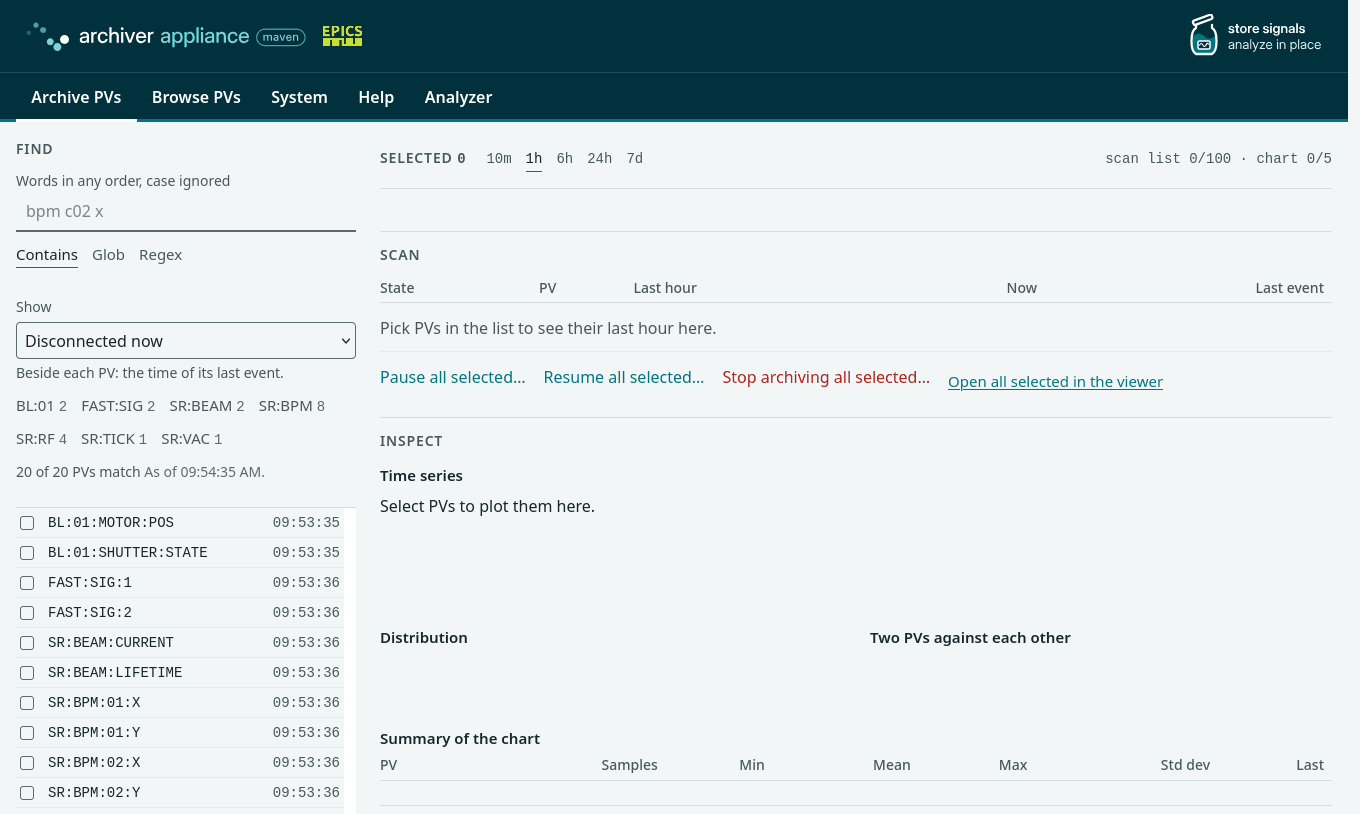
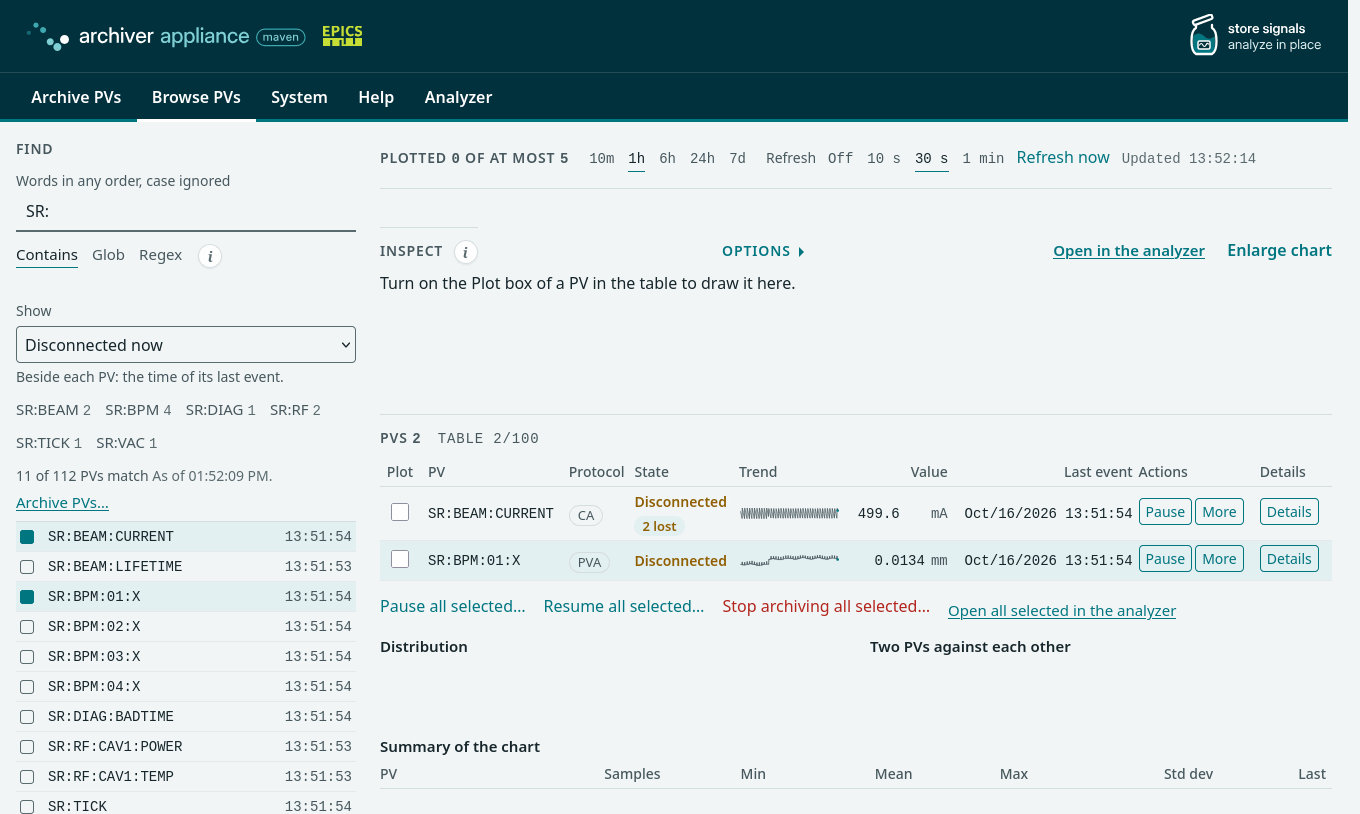
Describe the PV table, the Details window and Refresh in the manual
The interface and operating chapters describe the table of PVs, its row
actions, the Details window and the Refresh control, the retrieval
chapter the analyzer links, and four figures show the page.

Refs #39

diff --git a/docs/book/src/interface.md b/docs/book/src/interface.md
@@ -14,7 +14,7 @@ carries a content security policy, and the charts are drawn with D3.
 | Page | Address | For | Content |
 | :--- | :--- | :--- | :--- |
 | Archive PVs | `archive.html` | Everyone | Add one PV or a list of names, follow each request to the state Being archived, cancel, pause, resume or stop from its row |
-| Browse PVs | `index.html` | Everyone | Find PVs, scan the selected ones, inspect them, act on them |
+| Browse PVs | `index.html` | Everyone | Find PVs, list the selected ones with their value and last event, plot up to five of them, act on them |
 | System: Overview | `system.html` | Everyone | Three verdict lines and one row per measure with its value, its status and a link to the detail; the **i** button of a measure opens its meaning |
 | System: Operations | `operations.html` | The person who looks after the appliance | Samples, dropped samples, write path, stores and ETL, processes, configuration |
 | System: Retrieval performance | `retrieval.html` | A person whose data requests are slow | What the server reports and a request measured in the browser |
@@ -40,17 +40,17 @@ and its state, and the actions of that state:
 
 ## Browse PVs page
 
-The Browse PVs page, with three PVs selected:
+The Browse PVs page, with five PVs in the table and two of them plotted:
 
 ![The Browse PVs page](images/browse-page.png)
 
 | Part | Behavior |
 | :--- | :--- |
-| Find | Words in any order with case ignored, glob, or regular expression; chips group the matches by the first two `:` segments; the rows in view show the state of a PV that is not in the scan list (paused, not archived), read in one call for at most 60 rows |
+| Find | Words in any order with case ignored, glob, or regular expression; the **i** button beside the three modes explains each; chips group the matches by the first two `:` segments; the rows in view show the state of a PV that is not in the table (paused, not archived), read in one call for at most 60 rows |
 | Show | A selection of the list by one of the server reports: disconnected now, paused, never connected, waiting for the first connection, recently added, recently changed, highest event rate, highest storage rate, most storage used, most connection drops, silent for the longest time, most events dropped for a wrong time stamp, by buffer overflow and by a type change |
-| Scan | One row per selected PV with its state, a trend of the chosen range, the value now and the last event; at most 100 PVs. The link Open all selected in the viewer opens the selected PVs in the data viewer over the window of the chart |
-| Inspect | Time series of at most 5 PVs with one value axis for each unit and a legend, then distribution, scatter and statistics; Options, Enlarge chart and Open in the analyzer on the row of the Inspect heading; the line above the chart with the time window and the value ranges. The gestures and options are listed under [Chart controls](#chart-controls) |
-| Detail | State with its explanation, the actions that apply, a link that opens the PV in the data viewer, and the full details list |
+| Chart | The PVs whose Plot box is on, at most 5, with one value axis for each unit and a legend. Above it are the range buttons and the Refresh control; the line above the chart holds the time window and the value ranges; Options, Enlarge chart and Open in the analyzer are on the row of the Inspect heading. The gestures and options are listed under [Chart controls](#chart-controls) |
+| Table of PVs | One row per PV selected in the list, at most 100, under the chart; the columns are listed under [The table of PVs](#the-table-of-pvs) |
+| Distribution, scatter and statistics | Below the table: the distribution of the PV in front, the scatter of two PVs of the same unit, and the Summary of the chart |
 
 A PV name is a base name with an optional field (`X:Y` or `X:Y.RBV`); a
 name with a field is a PV of its own and the Browse PVs page and the viewer
@@ -66,20 +66,26 @@ has no sample has no value, and the line is not extended through it. The
 viewer's CSV download holds the values as drawn, with the column
 `interval_seconds` (1 for a stored sample, N for a mean over N seconds).
 
-The state of a PV and the actions that apply:
+The state of a PV and the actions in its row:
 
-| State | Actions |
+| State | Actions in the row |
 | :--- | :--- |
-| Being archived | Pause, Change sampling, Stop archiving, Maintenance |
-| Paused | Resume, Change sampling, Stop archiving, Maintenance |
-| Initial sampling, Appliance assigned | Abort the request |
-| Not being archived | Archive |
+| Being archived, Disconnected | Pause; More, which holds Change sampling, Maintenance and Stop archiving; Details |
+| Paused | Resume; More; Details |
+| Initial sampling, Appliance assigned | Cancel request; Details |
+| Not being archived | A link to the Archive PVs page with the name of the PV in its address |
 
 Stop archiving pauses the PV first, because the archiver removes only a
-paused PV. Change sampling applies at once to a running PV. Maintenance
-holds rename, change of type and consolidation; each of them pauses the PV
-first, and a change of type asks for a confirmation that a backup exists.
-Pause, Resume and Stop archiving also work on all selected PVs at once.
+paused PV, and says so before it acts. Change sampling applies at once to
+a running PV. Maintenance opens a window that explains rename, change of
+type and consolidation; each of them pauses the PV first, and a change of
+type asks for a confirmation that a backup exists. The More menu closes with
+Esc and with a click outside it; each window closes with Esc, its Close
+button and a click outside it, and the focus returns to the control that
+opened it. Under the table, Pause all selected, Resume all selected and
+Stop archiving all selected ask first and act on every PV of the table, and
+Open all selected in the analyzer opens every PV of the table in the
+analyzer over the window of the chart.
 
 The state is kept in the fragment of the address, the part after `#`
 (`index.html#q=bpm&range=10&pv=SR:BPM:01:X`), so a link reproduces the view:
@@ -91,7 +97,48 @@ The state is kept in the fragment of the address, the part after `#`
 | `report` | The selection of the Show list: `disconnected`, `paused`, `never`, `metagets`, `recent`, `modified`, `eventrate`, `storagerate`, `consumed`, `lost`, `silent`, `droppedtime`, `droppedbuffer` or `droppedtype`; none selects all archived PVs |
 | `range` | The range in minutes (default 60) |
 | `from`, `to` | A zoomed window, in milliseconds since the epoch |
-| `pv` (repeated) | The selected PVs |
+| `pv` (repeated) | The PVs of the table |
+| `plot` (repeated) | The PVs whose Plot box is on, at most 5, among the `pv` names |
+
+## The table of PVs
+
+Each PV selected in the list has one row:
+
+| Column | Content |
+| :--- | :--- |
+| Plot | The box that draws the PV in the chart. It is off when the row appears. At most 5 boxes are on; at 5 the other boxes are disabled and say why in their title |
+| PV | The name |
+| Protocol | CA or PVA, read from `usePVAccess` of `getPVTypeInfo`; empty for a PV that is not archived |
+| State | The state word of the PV and, when events were lost, `N lost`, where N is the sum of `eventsDropped` of the reports `getPVsByDroppedEventsTimestamp`, `getPVsByDroppedEventsBuffer` and `getPVsByDroppedEventsTypeChange`. The column is shown only while a PV is not in its normal state, which is Being archived with no lost event |
+| Trend | A small line of the chosen range, for every PV of the table whether or not its Plot box is on; none for an array PV |
+| Value | The value of the newest sample at or before the end of the chart window, with its unit, aligned on the decimal point. An array reads `array of N`. A PV with no sample in the 30 days before the end of the window has an empty cell with `no sample in 30 days` as its title |
+| Last event | The date and time of that sample, which is the time of the data and not the time at which the archiver received it, written in the time zone of the browser; the title holds the instant in UTC to the millisecond |
+| Std dev | The standard deviation of the points of the Trend; shown only while the Standard deviation band of the chart options is on |
+| Actions and Details | The buttons of the state of the PV, listed under [Browse PVs page](#browse-pvs-page) |
+
+Value and Last event come from one call of `getDataAtTime` for all the PVs of the table. While the window ends now the page leaves the instant out and the server answers with the newest sample; for a window that ends earlier the page sends the end of the window. A window of 10 minutes or less shows the same sample as the last one that `getData` returns for it; a longer window draws a mean in its last interval, which is not a sample.
+
+The **Details** button opens a window with the groups below. A value is read by the exact name of the call that holds it, `getPVStatus`, `getPVTypeInfo` or `getPVDetails`. A name that the call does not hold reads *not provided*; for a PVA PV these are the unit and the host. A value that is present and empty, a pair of limits that are both 0 or both NaN, and a limit that is NaN read *not set*; for a CA record without a unit the call returns an empty string, so its unit reads *not set*. A time is written as the server writes it, in the time zone of the server, under the heading of its kind: the time of the data, received, recorded, moved, and the times of the connection, of the settings of the PV and of the last request for its data.
+
+![The Details window of a PV](images/browse-details.png)
+
+| Group | Content |
+| :--- | :--- |
+| How it is stored | The appliance, the sampling, the policy, the estimated event rate, storage rate and growth, and the time at which the archiver last passed the data to the short term store |
+| Amount | The events so far, the raw scan events, the bytes per event and the elements per event |
+| Connection | Whether the PV is connected, its connection state and the connection drops, with the time of the data of the last event, the time at which the archiver received the last event, and the times of the connection |
+| Lost events | The events lost for a wrong time stamp, for a full sample buffer and for a change of type, and their sum |
+| Who reads it | The number of retrieval requests and of users, and the time of the last request |
+| The PV itself | The data type, the unit, the precision, the display, control, warning and alarm limits, the record type, the archived fields and the host, with the times at which its settings were created and last changed |
+| Moves between stores | For each move, for example from the short term store to the medium term store, the granularity of the source and of the destination, the duration of the last job, the number of runs, and the times of the last and the next run |
+
+A paused PV has no connection, no lost events and no moves between stores to report; its Details window says so for those groups.
+
+## Refreshing the page
+
+The control beside the range buttons offers Off, 10 s, 30 s and 1 min; 30 s is the default and the choice is kept in the browser. At each period the page reads Value and Last event again with one `getDataAtTime` call and the lost events from the three reports. The Trend and the chart are read again when their data is older than 25 seconds, so no more often than every 30 seconds. **Refresh now** reads everything once, and the time of the last read is written beside the control as Updated.
+
+With Off nothing changes until Refresh now is pressed; the state of a PV is read again only after an action on it and while its request is unfinished. A window that ends earlier than now has nothing new to read, so the control is dim and nothing is refreshed. A hidden browser tab pauses the refresh and a visible one reads again at once.
 
 ## Chart controls
 
@@ -200,10 +247,11 @@ type are not in the interface; their calls remain
 
 | Item | Value |
 | :--- | :--- |
-| PVs in the scan list | 100 |
+| PVs in the table | 100 |
 | PVs in a chart | 5; each unit has its own value axis |
 | Concurrent data requests | 6 |
-| Status of the selected PVs | Every 3 s while a request is unfinished or an action is recent, every 20 s otherwise |
+| Status of the PVs of the table | Every 3 s while a request is unfinished or an action is recent, every 20 s otherwise; with the Refresh control on Off, only in the first two cases |
+| Value, Last event and lost events of the table | At the period of the Refresh control (10 s, 30 s or 1 min); the Trend and the chart no more often than every 30 s |
 | System: Overview, Operations, Retrieval performance | Every 20 s, 30 s and 30 s while the page is visible |
 | A request measured on the Retrieval performance page | The whole answer is read into the page, about 100 bytes per sample (a week of a PV at 1 Hz is about 60 MB); the page says so next to the form |
 

diff --git a/docs/book/src/operating.md b/docs/book/src/operating.md
@@ -21,7 +21,7 @@ bar, named by task; the entry of the page in view is marked:
 | Menu entry | Opens | Purpose |
 | --- | --- | --- |
 | Archive PVs | the Archive PVs page | archive a PV and pause, resume or stop it |
-| Browse PVs | the Browse PVs page | find PVs, scan them, inspect their data; the reports are the **Show** list of the Find panel |
+| Browse PVs | the Browse PVs page | find PVs, list them with their value and last event, plot them, act on them; the reports are the **Show** list of the Find panel |
 | System | System: Overview | status monitoring: the verdict on the appliance, then Operations and Retrieval performance |
 | Help | the help page | how to use each page, the PV states, the management API reference ([Scripting](scripting.md)) and a link to this manual |
 | Analyzer | the data viewer | the data viewer of the retrieval web application ([Retrieving data](retrieval.md#the-data-viewer)) |
@@ -34,18 +34,22 @@ addresses of the earlier pages (`reports.html`, `metrics.html`,
 place.
 
 The Browse PVs page is the page of daily use. The next figure shows it with
-three PVs selected: the Find panel on the left, the scan list with a
-trend of each PV, the chart with its distribution, scatter plot and
-statistics, and the detail of the first PV.
+five PVs in the table and two of them plotted: the Find panel on the left,
+the chart, and the table with the protocol, the trend, the value and the
+time of the last event of each PV, and the buttons of its state.
 
-![The Browse PVs page with three PVs selected](images/browse-page.png)
+![The Browse PVs page with five PVs selected](images/browse-page.png)
 
-The controls of the chart (the time window, the value range of each unit, the
-Options panel, Enlarge chart) are listed in
-[Chart controls](interface.md#chart-controls). The link **Open in the
-analyzer** above the chart opens the PVs of the chart in the data viewer,
+Turn on the **Plot** box of a row to draw that PV in the chart; at most five
+PVs are drawn at a time. The controls of the chart (the time window, the
+value range of each unit, the Options panel, Enlarge chart) are listed in
+[Chart controls](interface.md#chart-controls), the columns of the table and
+the **Refresh** control in [The table of PVs](interface.md#the-table-of-pvs)
+and [Refreshing the page](interface.md#refreshing-the-page). The link **Open
+in the analyzer** above the chart opens the plotted PVs in the data viewer,
 which shows PVs as charts per unit, over the window of the chart
-([Retrieving data](retrieval.md#the-data-viewer)).
+([Retrieving data](retrieval.md#the-data-viewer)); **Open all selected in the
+analyzer** under the table opens every PV of the table.
 
 ## Adding PVs
 
@@ -89,29 +93,32 @@ instead.
 | Not being archived | the archiver has no request for the PV |
 | Appliance Down | the appliance that holds the PV does not answer, so its state cannot be read |
 
-A PV that never connects stays in Initial sampling. Its detail offers
-**Abort the request**.
+A PV that never connects stays in Initial sampling. Its row offers
+**Cancel request**.
 
 ## Managing a PV
 
-Select a PV in the list; its detail appears at the bottom of the Browse PVs
-page with the actions that apply to its state.
+Use the buttons in the row of the PV in the table of the Browse PVs page.
+Only the actions that fit its state appear. **More** holds Change sampling,
+Maintenance and Stop archiving; **Maintenance** opens a window that
+explains rename, change of type and consolidation before it asks.
 
-![The detail of an archived PV with its Maintenance actions opened](images/browse-maintenance.png)
+![The Maintenance window of an archived PV](images/browse-maintenance.png)
 
 | Action | Condition | Effect |
 | --- | --- | --- |
 | Pause, Resume | the PV is archived | stops or restarts sampling; the configuration and the stored data stay |
 | Change sampling | the PV is archived or paused | sets the method and the period; a running PV takes them at once and the stored data does not change |
 | Stop archiving | the PV is archived or paused | pauses the PV, removes it from the archiver and, when ticked, deletes its stored data |
-| Abort the request | the PV is in Initial sampling or Appliance assigned | cancels the archive request |
+| Cancel request | the PV is in Initial sampling or Appliance assigned | cancels the archive request |
 | Rename | none; the PV is paused first | copies the settings and the data to the new name; both names stay paused until each is checked and resumed |
 | Change type | none; the PV is paused first | converts the stored data of every store to the new type, in place; it asks for the confirmation that a backup exists |
 | Consolidate data | none; the PV is paused first | moves the data of the earlier stores up to the chosen store |
 
 **Pause all selected**, **Resume all selected** and **Stop archiving all
-selected** apply an action to every PV of the scan list. **All details**
-lists everything the archiver reports about the PV.
+selected** under the table apply an action to every PV of the table and ask
+first. **Details** in a row shows in groups what the archiver reports about
+the PV.
 
 ## Reports and System pages
 
@@ -224,7 +231,7 @@ tcpdump -i <interface> 'host <ioc> and host <appliance>' -w capture.pcap
 ```
 
 The [cashark](https://github.com/mdavidsaver/cashark/) plugin decodes CA
-and PVA in Wireshark and `tshark`. **All details** of a PV on the Browse PVs
-page lists the CA channel ID, the server channel ID and the subscription
-ID of its channel, and pausing and resuming the PV during the capture
-shows the channel's whole life cycle.
+and PVA in Wireshark and `tshark`. The call `getPVDetails` of a PV lists the
+CA channel ID, the server channel ID and the subscription ID of its channel,
+and pausing and resuming the PV during the capture shows the channel's whole
+life cycle.

diff --git a/docs/book/src/retrieval.md b/docs/book/src/retrieval.md
@@ -137,7 +137,8 @@ A window of up to 11 minutes shows the stored samples. A longer window
 shows means over equal intervals, requested as `meanSample_N`, and the
 chart says so. An interval without a sample has no value and the line
 stops there, so a lost connection is never drawn as a held value. The
-Browse PVs page of the web interface opens the selected PVs in the viewer
+Browse PVs page of the web interface opens the plotted PVs, or all the PVs of its
+table, in the viewer through the Analyzer entry
 ([Operating](operating.md#the-web-interface)).
 
 ## Phoebus Data Browser
